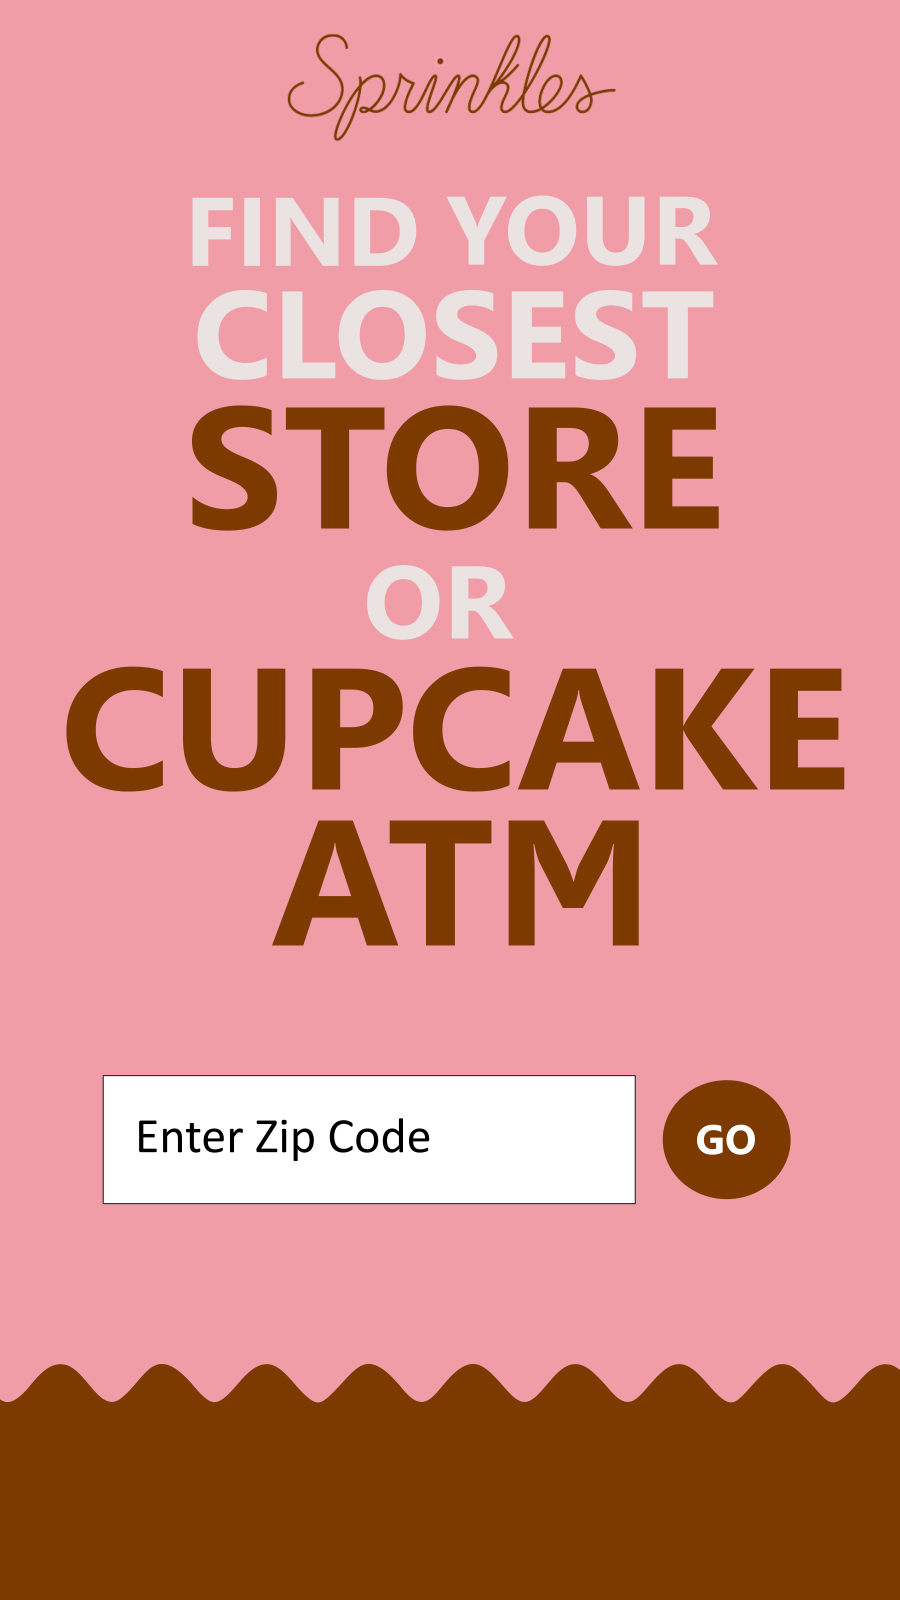
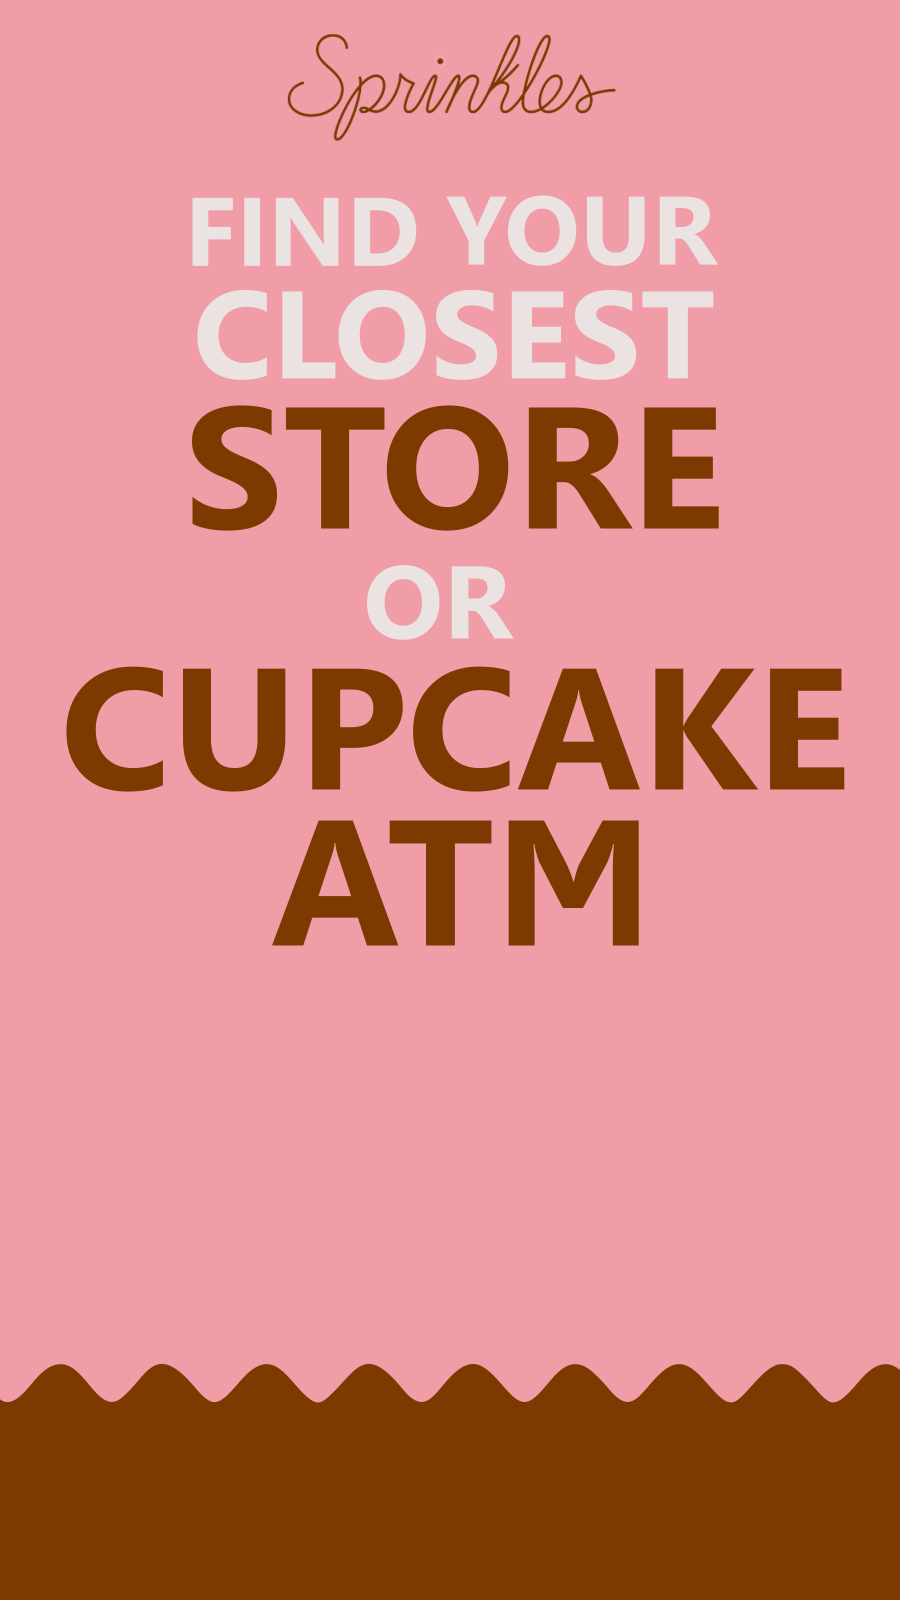
Zipcode search enabled on find store card

Changed region(s): [[0.0933, 0.6562, 0.9022, 0.75]]

diff --git a/SprinklesDeck3.html b/SprinklesDeck3.html
@@ -306,8 +306,9 @@
 
      <div class="card fixedcard">
         <img src="img/Sprinkles_findstore.png" style="width:100%; height: 100%">
-    </div> 
-  </div>
+          <input id="zipcode" type="text" pattern="[0-9]{5}" style="font-family: Calibri; font-size: 3vh; height:4vh; width: 10vw; position:absolute; top:70%; left:25%; z-index:2">
+          <a id="zipcodelink" href="#" target="_blank"><img src="img/GoButton.png" style="height:4vh; width:auto; position:absolute; z-index:2; left: 65%; top: 70%;" onclick="gotoMap()"></a>
+    </div>
 
   <div class = "navfooter">
   </div>  
@@ -323,6 +324,10 @@
   var navFooter = document.querySelector(".navfooter");
   var navIcons = [];
   var swipeEnabled = true;
+
+  function gotoMap() {
+    document.querySelector("#zipcodelink").href = "https://www.google.com/maps/search/?api=1&query=sprinkles+cupcakes+near+zip+code+" + document.querySelector("#zipcode").value;
+  }
 
   function decrementCardIndex() {
     if (swipeEnabled) {
